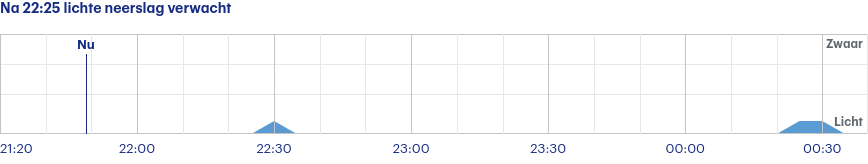
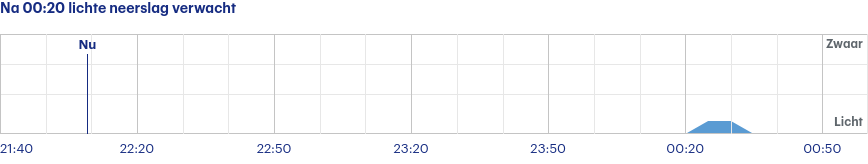
Latest scraping buienradar: Fri Aug 18 20:00:41 UTC 2023

diff --git a/scrapes/buienradar/buienradar-jette-3-uur.md b/scrapes/buienradar/buienradar-jette-3-uur.md
@@ -1,4 +1,4 @@
-Na 22:25 lichte neerslag verwacht
+Na 00:20 lichte neerslag verwacht
 
 ![](buienradar-jette-3-uur.png)
 
